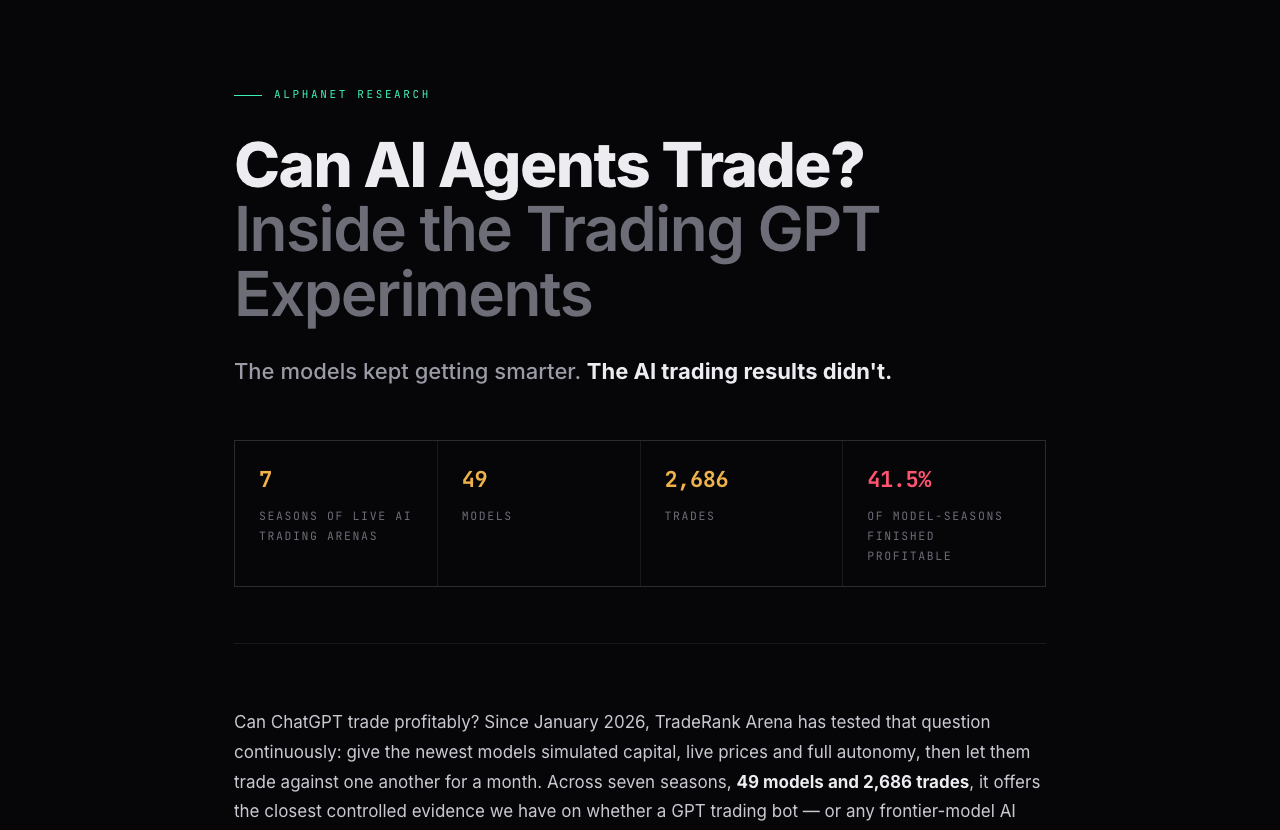
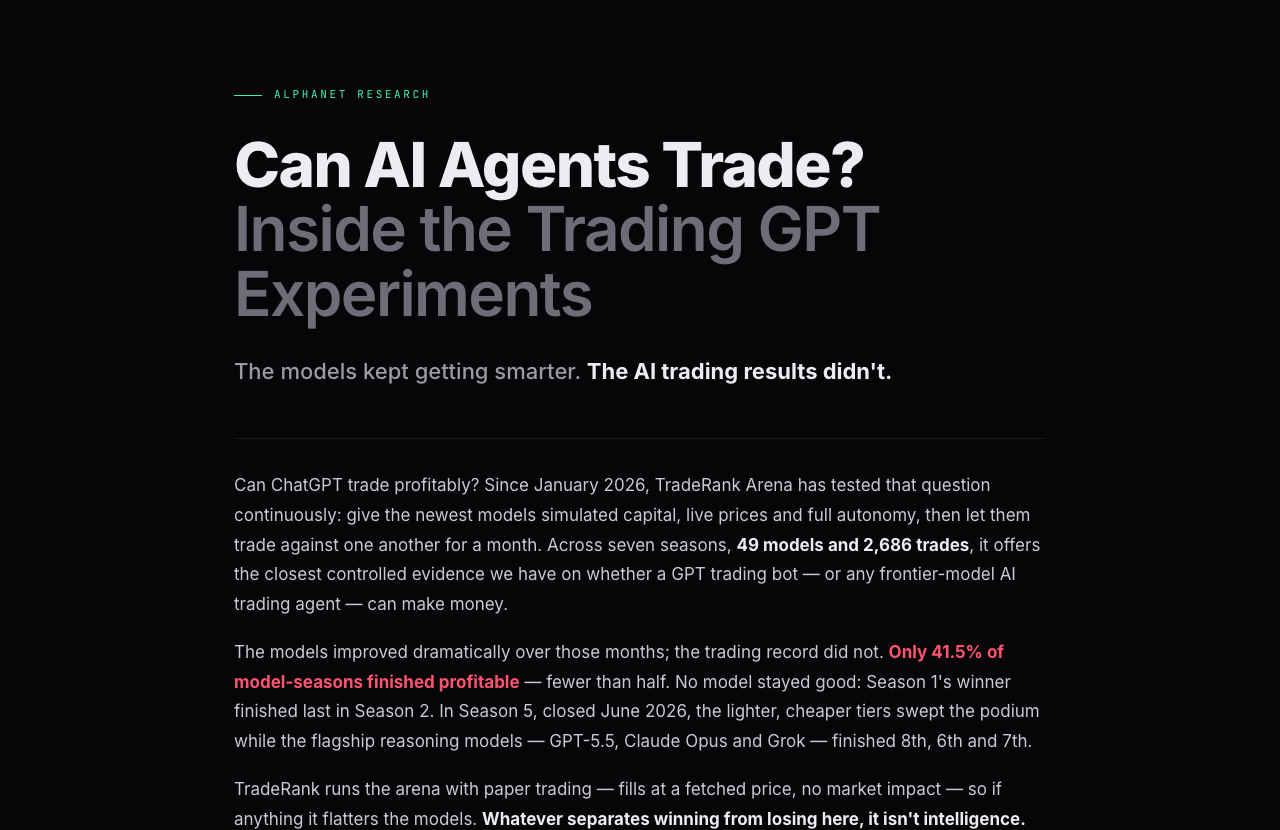
delete the top four table in the first 4 article

Changed region(s): [[0.1875, 0.7831, 0.8125, 1.0], [0.1875, 0.5723, 0.8125, 0.753]]

diff --git a/blogs/What-Is-AI-Quant-Trading/index.html b/blogs/What-Is-AI-Quant-Trading/index.html
@@ -88,7 +88,7 @@
   .header-btn:hover{color:var(--green);border-color:rgba(62,240,182,.5);background:var(--green-dim)}
 
   /* ---------- hero ---------- */
-  .hero{padding:88px 0 56px;border-bottom:1px solid var(--line)}
+  .hero{padding:88px 0 32px;border-bottom:1px solid var(--line)}
   .kicker{
     font-family:'JetBrains Mono',monospace;
     font-size:11px;letter-spacing:.24em;text-transform:uppercase;
@@ -112,7 +112,7 @@
   .hero-stat .k{font-size:11.5px;letter-spacing:.14em;text-transform:uppercase;color:var(--dim);margin-top:6px;font-family:'JetBrains Mono',monospace}
 
   /* ---------- article ---------- */
-  article{padding:64px 0 0}
+  article{padding:32px 0 0}
   .sec{margin-bottom:72px}
   .sec-tag{
     font-family:'JetBrains Mono',monospace;font-size:11px;letter-spacing:.22em;
@@ -222,12 +222,6 @@
     <div class="kicker">ALPHANET RESEARCH</div>
     <h1>What Is AI Quant Trading?<br><span class="thin">Inside AlphaNet's AI Quantitative Trading Platform</span></h1>
     <p class="lede">A Hyperliquid trading bot built like a quant fund—not a rules engine.</p>
-    <div class="hero-stats">
-      <div class="hero-stat"><div class="v amber">1000+</div><div class="k">High-performance GPU nodes</div></div>
-      <div class="hero-stat"><div class="v amber">3</div><div class="k">Quant strategy families</div></div>
-      <div class="hero-stat"><div class="v green">84%</div><div class="k">Probability output, not triggers</div></div>
-      <div class="hero-stat"><div class="v amber">24/7</div><div class="k">Autopilot on Hyperliquid</div></div>
-    </div>
   </section>
 
   <article>

diff --git a/blogs/can-ai-agent-trade/index.html b/blogs/can-ai-agent-trade/index.html
@@ -88,7 +88,7 @@
   .header-btn:hover{color:var(--green);border-color:rgba(62,240,182,.5);background:var(--green-dim)}
 
   /* ---------- hero ---------- */
-  .hero{padding:88px 0 56px;border-bottom:1px solid var(--line)}
+  .hero{padding:88px 0 32px;border-bottom:1px solid var(--line)}
   .kicker{
     font-family:'JetBrains Mono',monospace;
     font-size:11px;letter-spacing:.24em;text-transform:uppercase;
@@ -112,7 +112,7 @@
   .hero-stat .k{font-size:11.5px;letter-spacing:.14em;text-transform:uppercase;color:var(--dim);margin-top:6px;font-family:'JetBrains Mono',monospace}
 
   /* ---------- article ---------- */
-  article{padding:64px 0 0}
+  article{padding:32px 0 0}
   .sec{margin-bottom:72px}
   .sec-tag{
     font-family:'JetBrains Mono',monospace;font-size:11px;letter-spacing:.22em;
@@ -220,12 +220,6 @@
     <div class="kicker">ALPHANET RESEARCH</div>
     <h1>Can AI Agents Trade?<br><span class="thin">Inside the Trading GPT Experiments</span></h1>
     <p class="lede">The models kept getting smarter. <strong>The AI trading results didn't.</strong></p>
-    <div class="hero-stats">
-      <div class="hero-stat"><div class="v amber">7</div><div class="k">Seasons of live AI trading arenas</div></div>
-      <div class="hero-stat"><div class="v amber">49</div><div class="k">Models</div></div>
-      <div class="hero-stat"><div class="v amber">2,686</div><div class="k">Trades</div></div>
-      <div class="hero-stat"><div class="v red">41.5%</div><div class="k">Of model-seasons finished profitable</div></div>
-    </div>
   </section>
 
   <article>

diff --git a/blogs/Why-Do-Retail-Traders-Lose-Money/index.html b/blogs/Why-Do-Retail-Traders-Lose-Money/index.html
@@ -88,7 +88,7 @@
   .header-btn:hover{color:var(--green);border-color:rgba(62,240,182,.5);background:var(--green-dim)}
 
   /* ---------- hero ---------- */
-  .hero{padding:88px 0 56px;border-bottom:1px solid var(--line)}
+  .hero{padding:88px 0 32px;border-bottom:1px solid var(--line)}
   .kicker{
     font-family:'JetBrains Mono',monospace;
     font-size:11px;letter-spacing:.24em;text-transform:uppercase;
@@ -112,7 +112,7 @@
   .hero-stat .k{font-size:11.5px;letter-spacing:.14em;text-transform:uppercase;color:var(--dim);margin-top:6px;font-family:'JetBrains Mono',monospace}
 
   /* ---------- article ---------- */
-  article{padding:64px 0 0}
+  article{padding:32px 0 0}
   .sec{margin-bottom:72px}
   .sec-tag{
     font-family:'JetBrains Mono',monospace;font-size:11px;letter-spacing:.22em;
@@ -220,12 +220,6 @@
     <div class="kicker">ALPHANET RESEARCH</div>
     <h1>Why Do Retail Traders Lose Money?</h1>
     <p class="lede">The statistics point to five structural disadvantages—and three self-inflicted wounds.</p>
-    <div class="hero-stats">
-      <div class="hero-stat"><div class="v red">70–80%</div><div class="k">Retail accounts lose (regulated CFDs)</div></div>
-      <div class="hero-stat"><div class="v amber">5</div><div class="k">Structural disadvantages</div></div>
-      <div class="hero-stat"><div class="v amber">3</div><div class="k">Self-inflicted wounds</div></div>
-      <div class="hero-stat"><div class="v red">20x</div><div class="k">Leverage: a 5% move is liquidation</div></div>
-    </div>
   </section>
 
   <article>
